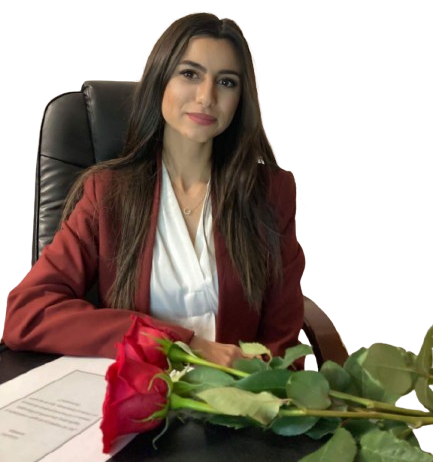
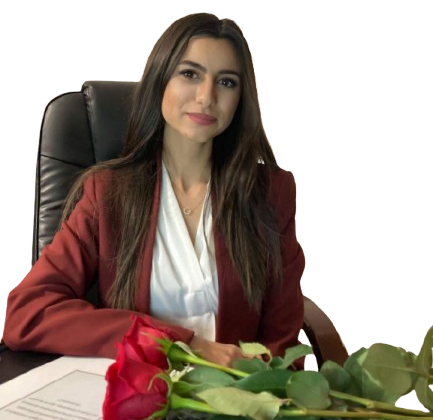
added contact

diff --git a/index.html b/index.html
@@ -110,12 +110,14 @@
     <section id="contact" class="section">
         <div class="container">
             <h2>Contact</h2>
+            <p>Email: avocat.cristeamaria@gmail.com</p>
+            <p>Numar de telefon: 0758484560</p>
             <p>Nu ezitați să mă contactați pentru orice întrebare sau consultație. Sunt disponibilă pentru a discuta despre cum pot să vă ajut cu soluții juridice profesionale și personalizate.</p>
             <form action="submit_form.php" method="POST">
                 <input type="text" name="nume" placeholder="Nume complet" required>
                 <input type="email" name="email" placeholder="Adresa de e-mail" required>
                 <textarea name="mesaj" placeholder="Mesajul dumneavoastră" rows="4" required></textarea>
-                <button type="submit">Trimite mesajul</button>
+                <button type="submit" disabled>Trimite mesajul</button>
             </form>
         </div>
     </section>

diff --git a/styles.css b/styles.css
@@ -120,6 +120,7 @@ footer {
 form {
     display: flex;
     flex-direction: column;
+    opacity: 0.5;
 }
 form input, form textarea, form button {
     padding: 10px;
